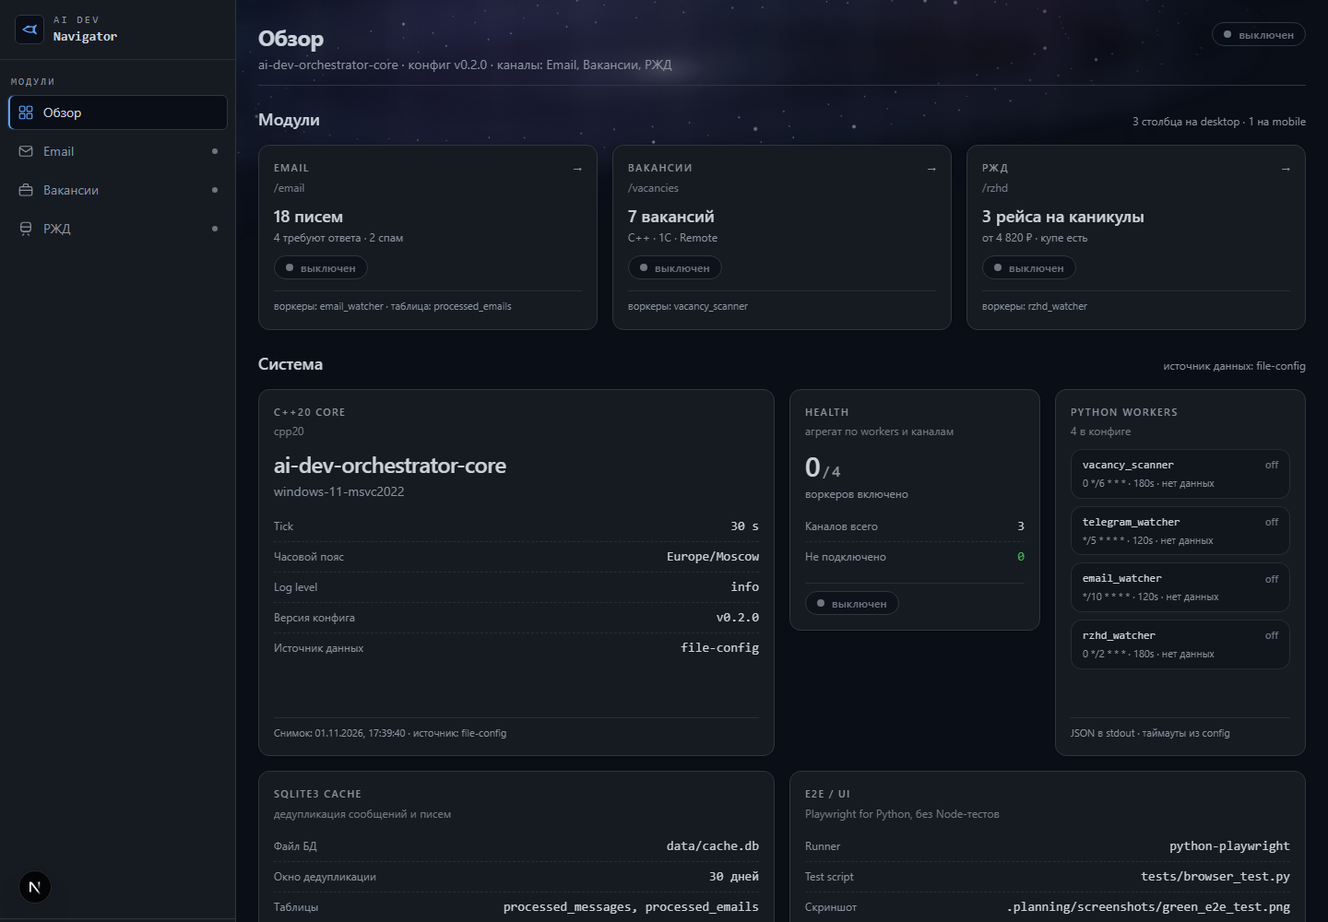
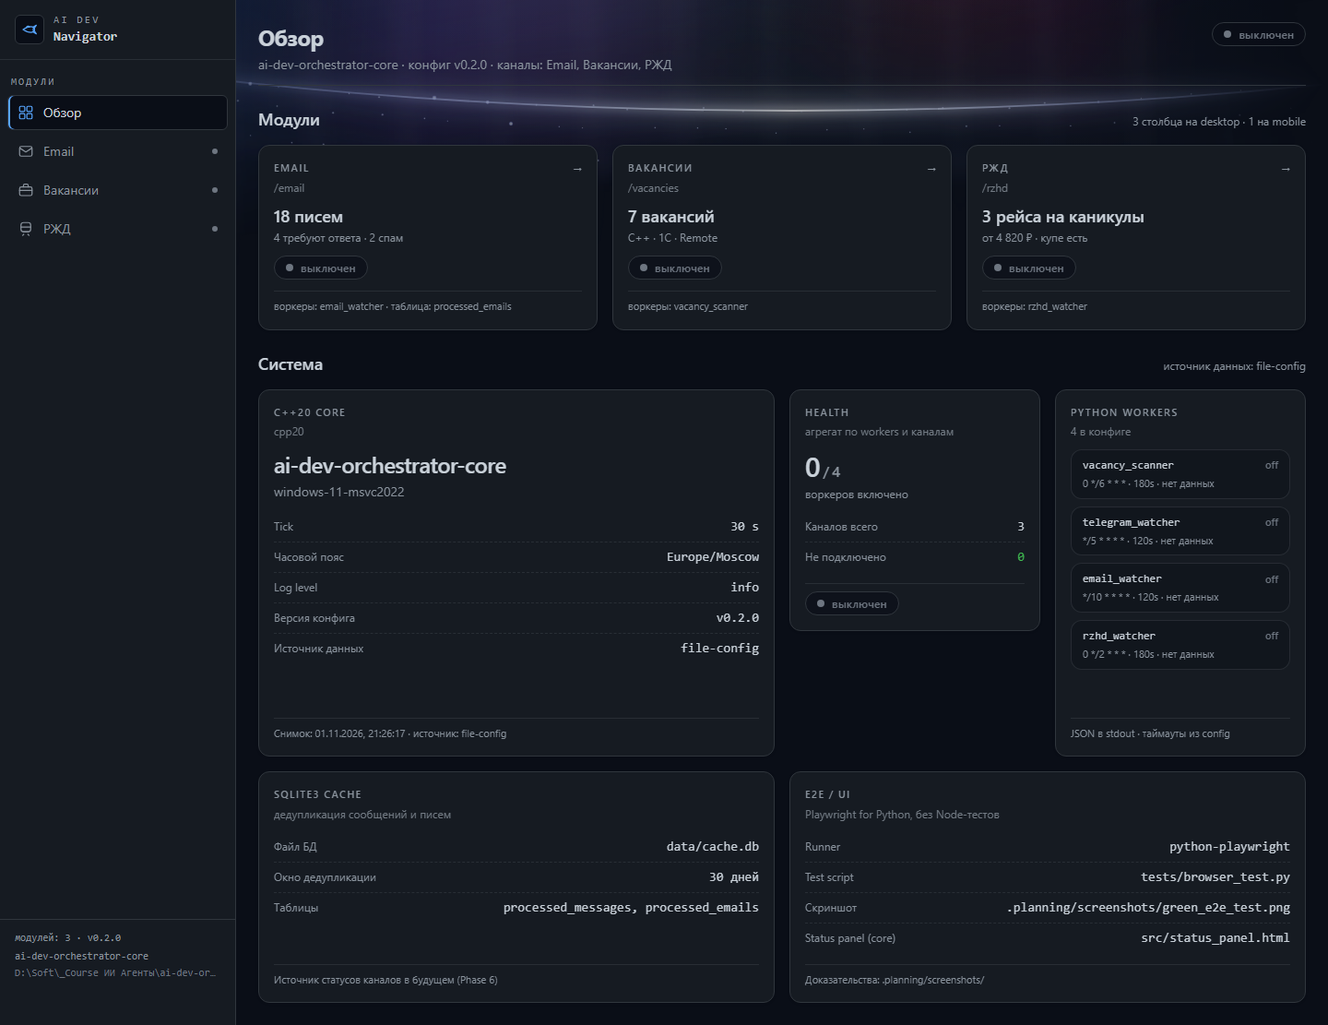
Lesson9

diff --git a/web/components/layout/AuroraBackdrop.tsx b/web/components/layout/AuroraBackdrop.tsx
@@ -9,10 +9,12 @@ interface StarDot {
 }
 
 /**
- * Параметры эллиптического шлейфа: широкий вытянутый овал, который плавно
- * расходится влево и вправо по верхней панели. `lanes` — относительные радиусы
- * «дорожек» внутри овала (0.68 / 0.86 / 1), за счёт них шлейф читается как
- * объёмная структура, а не как одна линия.
+ * Параметры эллиптической орбиты: широкий вытянутый овал, нижняя дуга которого
+ * проходит по верхней панели и уходит под карточки. `laneOffsets` — смещения
+ * «дорожек» по вертикальному радиусу в px: дорожки идут почти параллельно друг
+ * другу, поэтому шлейф читается как объёмная структура, а не как одна линия, и
+ * не разваливается на вложенные овалы (при больших `ry` множители вроде
+ * 0.68 / 0.86 разносили бы дуги на сотни пикселей).
  */
 interface EllipticalTrailOptions {
   readonly id: string;
@@ -21,11 +23,20 @@ interface EllipticalTrailOptions {
   readonly rx: number;
   readonly ry: number;
   readonly tilt: number;
-  readonly lanes: readonly number[];
+  readonly laneOffsets: readonly number[];
   readonly dotsPerLane: number;
   readonly seed: number;
   readonly opacity: number;
 }
+
+/**
+ * Во сколько раз горизонтальный радиус дорожки растёт вслед за вертикальным
+ * смещением: так дорожки остаются почти параллельными дуге горизонта.
+ */
+const LANE_RX_PER_RY = 2.6;
+
+/** Полуразмах горизонтального градиента нити горизонта (px в координатах viewBox). */
+const HORIZON_REACH = 740;
 
 /**
  * Детерминированный псевдошум: одинаковый результат на сервере и клиенте,
@@ -52,16 +63,18 @@ function buildTrailDots(options: EllipticalTrailOptions): readonly StarDot[] {
   const cosTilt = Math.cos(tiltRadians);
   const sinTilt = Math.sin(tiltRadians);
 
-  options.lanes.forEach((lane, laneIndex) => {
-    const count = Math.round(options.dotsPerLane * (0.78 + laneIndex * 0.16));
+  options.laneOffsets.forEach((offset, laneIndex) => {
+    const count = Math.round(options.dotsPerLane * (0.82 + laneIndex * 0.12));
     const step = (Math.PI * 2) / count;
+    const laneRx = options.rx + offset * LANE_RX_PER_RY;
+    const laneRy = options.ry + offset;
 
     for (let index = 0; index < count; index += 1) {
       const seed = options.seed + laneIndex * 211 + index;
       const angle = index * step + (pseudoNoise(seed) - 0.5) * step * 0.6;
-      const radial = lane * (1 + (pseudoNoise(seed + 7) - 0.5) * 0.05);
-      const x = Math.cos(angle) * options.rx * radial;
-      const y = Math.sin(angle) * options.ry * radial;
+      const radial = 1 + (pseudoNoise(seed + 7) - 0.5) * 0.012;
+      const x = Math.cos(angle) * laneRx * radial;
+      const y = Math.sin(angle) * laneRy * radial;
 
       /* 1 у концов овала (там звёзды гаснут), 0 в центре (там ярче) */
       const edge = Math.abs(Math.cos(angle));
@@ -81,9 +94,11 @@ function buildTrailDots(options: EllipticalTrailOptions): readonly StarDot[] {
   return dots;
 }
 
-/** Один шлейф: мягкая дымка по форме овала, разреженные звёзды и светящееся ядро. */
+/** Один шлейф: мягкая дымка по форме овала, разреженные звёзды и линия горизонта. */
 function EllipticalTrail({ trail }: { readonly trail: EllipticalTrailOptions }): ReactElement {
   const dots = buildTrailDots(trail);
+  /* Нижняя точка орбиты — она же линия горизонта на верхней панели. */
+  const limbY = trail.cy + trail.ry;
 
   return (
     <g opacity={trail.opacity} transform={`rotate(${trail.tilt} ${trail.cx} ${trail.cy})`}>
@@ -113,23 +128,76 @@ function EllipticalTrail({ trail }: { readonly trail: EllipticalTrailOptions }):
         <filter id={`${trail.id}-soft`} x="-30%" y="-30%" width="160%" height="160%">
           <feGaussianBlur stdDeviation={12} />
         </filter>
+        <filter id={`${trail.id}-glow`} x="-20%" y="-40%" width="140%" height="180%">
+          <feGaussianBlur stdDeviation={5} />
+        </filter>
+        {/*
+         * Небо горизонта: заливка внутренней части орбиты. Градиент идёт сверху
+         * вниз и обрывается на линии горизонта — над дугой появляется мягкое
+         * свечение, а ниже остаётся чистый --color-canvas.
+         */}
+        <linearGradient
+          id={`${trail.id}-sky`}
+          gradientUnits="userSpaceOnUse"
+          x1={0}
+          y1={limbY - 170}
+          x2={0}
+          y2={limbY + 6}
+        >
+          <stop offset="0%" stopColor="#6f86d8" stopOpacity={0} />
+          <stop offset="45%" stopColor="#8fa6ff" stopOpacity={0.03} />
+          <stop offset="72%" stopColor="#a7bbff" stopOpacity={0.055} />
+          <stop offset="88%" stopColor="#c2d4ff" stopOpacity={0.08} />
+          <stop offset="100%" stopColor="#dbe7ff" stopOpacity={0.11} />
+        </linearGradient>
+        {/*
+         * Нить горизонта: горизонтальный градиент собирает свечение в центре
+         * верхней панели и гасит дугу к краям окна — резких обрывов нет.
+         */}
+        <linearGradient
+          id={`${trail.id}-rim`}
+          gradientUnits="userSpaceOnUse"
+          x1={trail.cx - HORIZON_REACH}
+          y1={0}
+          x2={trail.cx + HORIZON_REACH}
+          y2={0}
+        >
+          <stop offset="0%" stopColor="#9fb4ff" stopOpacity={0.08} />
+          <stop offset="12%" stopColor="#a9bcff" stopOpacity={0.4} />
+          <stop offset="28%" stopColor="#b9caff" stopOpacity={0.62} />
+          <stop offset="42%" stopColor="#e2ecff" stopOpacity={0.85} />
+          <stop offset="50%" stopColor="#ffffff" stopOpacity={1} />
+          <stop offset="58%" stopColor="#e2ecff" stopOpacity={0.85} />
+          <stop offset="72%" stopColor="#b9caff" stopOpacity={0.62} />
+          <stop offset="88%" stopColor="#a9bcff" stopOpacity={0.42} />
+          <stop offset="100%" stopColor="#9fb4ff" stopOpacity={0.3} />
+        </linearGradient>
       </defs>
+
+      {/* Небо горизонта: мягкая заливка внутренней части орбиты, ярче у дуги */}
+      <ellipse
+        cx={trail.cx}
+        cy={trail.cy}
+        rx={trail.rx}
+        ry={trail.ry}
+        fill={`url(#${trail.id}-sky)`}
+      />
 
       {/* Дымка шлейфа: размытые полосы вдоль овала, без «рельсов» и рёбер */}
       <g
         fill="none"
         stroke="#8ea6ff"
-        strokeWidth={26}
-        opacity={0.09}
+        strokeWidth={24}
+        opacity={0.08}
         filter={`url(#${trail.id}-soft)`}
       >
-        {trail.lanes.map((lane, index) => (
+        {trail.laneOffsets.map((offset, index) => (
           <ellipse
             key={`${trail.id}-lane-${index}`}
             cx={trail.cx}
             cy={trail.cy}
-            rx={trail.rx * lane}
-            ry={trail.ry * lane}
+            rx={trail.rx + offset * LANE_RX_PER_RY}
+            ry={trail.ry + offset}
           />
         ))}
       </g>
@@ -138,8 +206,8 @@ function EllipticalTrail({ trail }: { readonly trail: EllipticalTrailOptions }):
       <ellipse
         cx={trail.cx}
         cy={trail.cy}
-        rx={trail.rx * 0.82}
-        ry={trail.ry * 1.2}
+        rx={trail.rx * 0.9}
+        ry={trail.ry * 1.15}
         fill={`url(#${trail.id}-halo)`}
       />
 
@@ -156,7 +224,44 @@ function EllipticalTrail({ trail }: { readonly trail: EllipticalTrailOptions }):
         ))}
       </g>
 
-      {/* Ядро: мягкое свечение без жёстких границ, чтобы не спорить с заголовком */}
+      {/* Ореол горизонта: размытая широкая дуга, повторяющая нижнюю часть орбиты */}
+      <ellipse
+        cx={trail.cx}
+        cy={trail.cy}
+        rx={trail.rx}
+        ry={trail.ry}
+        stroke={`url(#${trail.id}-rim)`}
+        strokeWidth={26}
+        opacity={0.22}
+        filter={`url(#${trail.id}-soft)`}
+      />
+
+      {/* Ближний свет: узкое свечение вокруг нити, держит дугу очерченной */}
+      <ellipse
+        cx={trail.cx}
+        cy={trail.cy}
+        rx={trail.rx}
+        ry={trail.ry}
+        stroke={`url(#${trail.id}-rim)`}
+        strokeWidth={8}
+        opacity={0.5}
+        filter={`url(#${trail.id}-glow)`}
+      />
+
+      {/* Нить горизонта: тонкая светящаяся дуга, гаснущая к краям окна */}
+      <ellipse
+        cx={trail.cx}
+        cy={trail.cy}
+        rx={trail.rx}
+        ry={trail.ry}
+        stroke={`url(#${trail.id}-rim)`}
+        strokeWidth={1.8}
+      />
+
+      {/*
+       * Ядро: живёт выше верхней границы окна — в кадр попадает только его
+       * отсвет, поэтому за карточками «Модули» нет пересвеченного пятна.
+       */}
       <ellipse
         cx={trail.cx}
         cy={trail.cy}
@@ -174,16 +279,21 @@ function EllipticalTrail({ trail }: { readonly trail: EllipticalTrailOptions }):
     </g>
   );
 }
-/** Широкий вытянутый шлейф: расходится влево и вправо по всей верхней панели. */
+/**
+ * Орбита галактики: ядро вынесено далеко за верхнюю границу окна, поэтому в
+ * кадр попадает только нижняя часть эллипса — мягкая вытянутая дуга горизонта.
+ * `rx` заметно больше половины ширины viewBox: концы дуги уходят за края
+ * экрана и не обрываются в видимой области.
+ */
 const MAIN_TRAIL: EllipticalTrailOptions = {
   id: "galaxy-trail",
-  cx: 720,
-  cy: 236,
-  rx: 648,
-  ry: 88,
-  tilt: -3,
-  lanes: [0.68, 0.86, 1],
-  dotsPerLane: 76,
+  cx: 860,
+  cy: -306,
+  rx: 1600,
+  ry: 426,
+  tilt: 0,
+  laneOffsets: [0, 22, 58],
+  dotsPerLane: 220,
   seed: 5.3,
   opacity: 0.9,
 };
@@ -193,12 +303,16 @@ const VIEW_WIDTH = 1440;
 const VIEW_HEIGHT = 440;
 
 /**
- * Декоративный фон: эллиптический галактический шлейф (инлайн-SVG) и северное
+ * Декоративный фон: эллиптическая орбита галактики (инлайн-SVG) и северное
  * сияние из плавных градиентных лент с очень медленным циклом 26–33 s.
  *
- * Геометрия фона: овал вытянут по горизонтали и расходится по всей верхней
- * панели, звёзды разрежены (постоянный шаг по углу), а mask-градиент гасит
- * шлейф у левого и правого краёв — переход в фон без резких обрывов.
+ * Геометрия фона: ядро галактики вынесено далеко за верхнюю границу окна,
+ * поэтому в кадр попадает только нижняя дуга орбиты — она читается как
+ * «горизонт событий»: мягкая вытянутая светящаяся дуга в центре верхней
+ * панели, концы которой уходят за края окна, а нижние дорожки плавно
+ * спускаются под карточки «Модули». mask-градиент гасит шлейф у левого и
+ * правого краёв, а нить горизонта собрана в центре, поэтому заголовок «Обзор»
+ * и метаданные лежат на затемнённом участке с сохранённым контрастом.
  *
  * Инварианты контраста (WCAG >= 7:1): слой живёт в отдельном контексте
  * `z-index: 0`, а контент AppShell поднят на `z-index: 10` и лежит на
@@ -214,6 +328,7 @@ export function AuroraBackdrop(): ReactElement {
       <svg
         className="galaxy-cluster"
         viewBox={`0 0 ${VIEW_WIDTH} ${VIEW_HEIGHT}`}
+        preserveAspectRatio="none"
         fill="none"
         focusable="false"
         aria-hidden="true"
@@ -222,10 +337,14 @@ export function AuroraBackdrop(): ReactElement {
           {/* Мягкое затухание к краям экрана: маска по горизонтали */}
           <linearGradient id="galaxy-edge-fade" x1="0%" y1="0%" x2="100%" y2="0%">
             <stop offset="0%" stopColor="#ffffff" stopOpacity={0} />
-            <stop offset="15%" stopColor="#ffffff" stopOpacity={0.8} />
+            <stop offset="6%" stopColor="#ffffff" stopOpacity={0.3} />
+            <stop offset="14%" stopColor="#ffffff" stopOpacity={0.7} />
+            <stop offset="22%" stopColor="#ffffff" stopOpacity={0.93} />
             <stop offset="32%" stopColor="#ffffff" stopOpacity={1} />
             <stop offset="68%" stopColor="#ffffff" stopOpacity={1} />
-            <stop offset="85%" stopColor="#ffffff" stopOpacity={0.8} />
+            <stop offset="78%" stopColor="#ffffff" stopOpacity={0.93} />
+            <stop offset="86%" stopColor="#ffffff" stopOpacity={0.7} />
+            <stop offset="94%" stopColor="#ffffff" stopOpacity={0.3} />
             <stop offset="100%" stopColor="#ffffff" stopOpacity={0} />
           </linearGradient>
           <mask

diff --git a/web/app/globals.css b/web/app/globals.css
@@ -121,18 +121,21 @@
   }
 
   /*
-   * Эллиптический галактический шлейф: широкая вытянутая галактика, которая
-   * расходится влево и вправо по всей верхней панели. SVG масштабируется по
-   * ширине окна, а горизонтальное затухание к краям задаёт маска внутри
-   * viewBox — резких обрывов на границе экрана нет.
+   * Эллиптическая орбита: ядро галактики вынесено за верхнюю границу окна, в
+   * кадре остаётся нижняя дуга — «горизонт событий» под верхней панелью.
+   * Высота закреплена (viewBox 1440x440 → 27.5rem), поэтому вертикальные
+   * координаты дуги не зависят от ширины окна: при любом разрешении горизонт
+   * остаётся между шапкой и bento-сеткой. По ширине SVG растягивается
+   * (preserveAspectRatio="none"), а горизонтальное затухание к краям задаёт
+   * маска внутри viewBox — резких обрывов на границе экрана нет.
    */
   .galaxy-cluster {
     position: absolute;
-    top: -10rem;
+    top: 0;
     left: 0;
     display: block;
     width: 100%;
-    height: auto;
+    height: 27.5rem;
   }
 
   /* Лента сияния: плавный градиент + блюр + вертикальная маска «занавеса» */

diff --git a/README.md b/README.md
@@ -13,12 +13,13 @@
 
 ![Главный дашборд системы](web/public/screenshots/dashboard_desktop.png)
 
+*Снимок сделан с production-сборки (`npm run build` + `npm run start:e2e`), окно 1440 px, анимации отключены через `prefers-reduced-motion` — поэтому кадр чистый и повторяемый.*
+
 ## 📦 Текущий статус реализации (Phase 3 & Phase 5)
 
 1. **Канал «Email»:** Готов каркас асинхронного воркера `agents/mail_worker.py` (чистые корутины через `aioimaplib` и `httpx`), реализующий каскадную стратегию экономии токенов (WhiteList ➔ DeepSeek-V3 (`deepseek-chat`) ➔ DeepSeek-R1 (`deepseek-reasoner`)).
 2. **Канал «Вакансии» & «РЖД»:** Размечены в конфигурации `config/orchestrator.json`, подготовлены UI-карточки в состоянии `not_connected`.
-3. **Интерфейс:** Next.js 15, Tailwind v4, анимированный Aurora-бэкграунд (вытянутый эллиптический галактический шлейф с разреженными звёздами и Северное сияние), кастомный брендинг и иконка корабля Trimaxion (Max) из фильма «Полет навигатора».
-
+3. **Интерфейс:** Next.js 15, Tailwind v4, анимированный Aurora-бэкграунд (`web/components/layout/AuroraBackdrop.tsx`): ядро галактической орбиты вынесено за верхнюю границу окна, поэтому в кадре остаётся только нижняя дуга эллипса — мягкий «горизонт событий» под верхней панелью: концы дуги уходят за края окна, нижние дорожки плавно опускаются и скрываются под bento-карточками. Кастомный брендинг и иконка корабля Trimaxion (Max) из фильма «Полет навигатора».
 
 ## 🗂 Структура репозитория
 
@@ -60,7 +61,8 @@ Set-Location ..
 | Палитра `--color-canvas` #0A0E17 / `--color-surface` #161B22 | CSS-переменные в `web/app/globals.css` (Tailwind v4 `@theme`) |
 | Bento-Grid: 3 колонки на desktop, 1 на mobile | `web/components/bento/BentoGrid.tsx` |
 | JetBrains Mono для логов и метаданных | `--font-mono` в `web/app/globals.css` |
-| Контраст WCAG >= 7:1 | Контент лежит на непрозрачных поверхностях, фон гасится масками. Замер по скриншоту: `--color-ink` 11.3–12.5:1, `--color-muted` 5.7–6.3:1 |
+| Контраст WCAG >= 7:1 | Контент лежит на непрозрачных поверхностях, фон гасится масками. Замер по `dashboard_desktop.png`: `--color-ink` 10.6–12.5:1 (AAA с запасом), `--color-muted` 5.3–6.3:1 (выше AA 4.5:1) |
+| Фон не спорит с текстом (design.md §1 «сдержанная атмосфера») | «Горизонт событий»: ядро орбиты вне кадра, дуга собрана в центре верхней панели и гаснет к краям окна (`web/components/layout/AuroraBackdrop.tsx`, mask-градиент `galaxy-edge-fade`) |
 | `prefers-reduced-motion` | Отключение анимаций сияния в `web/app/globals.css` |
 
 ## 📚 Материалы предыдущих модулей курса
